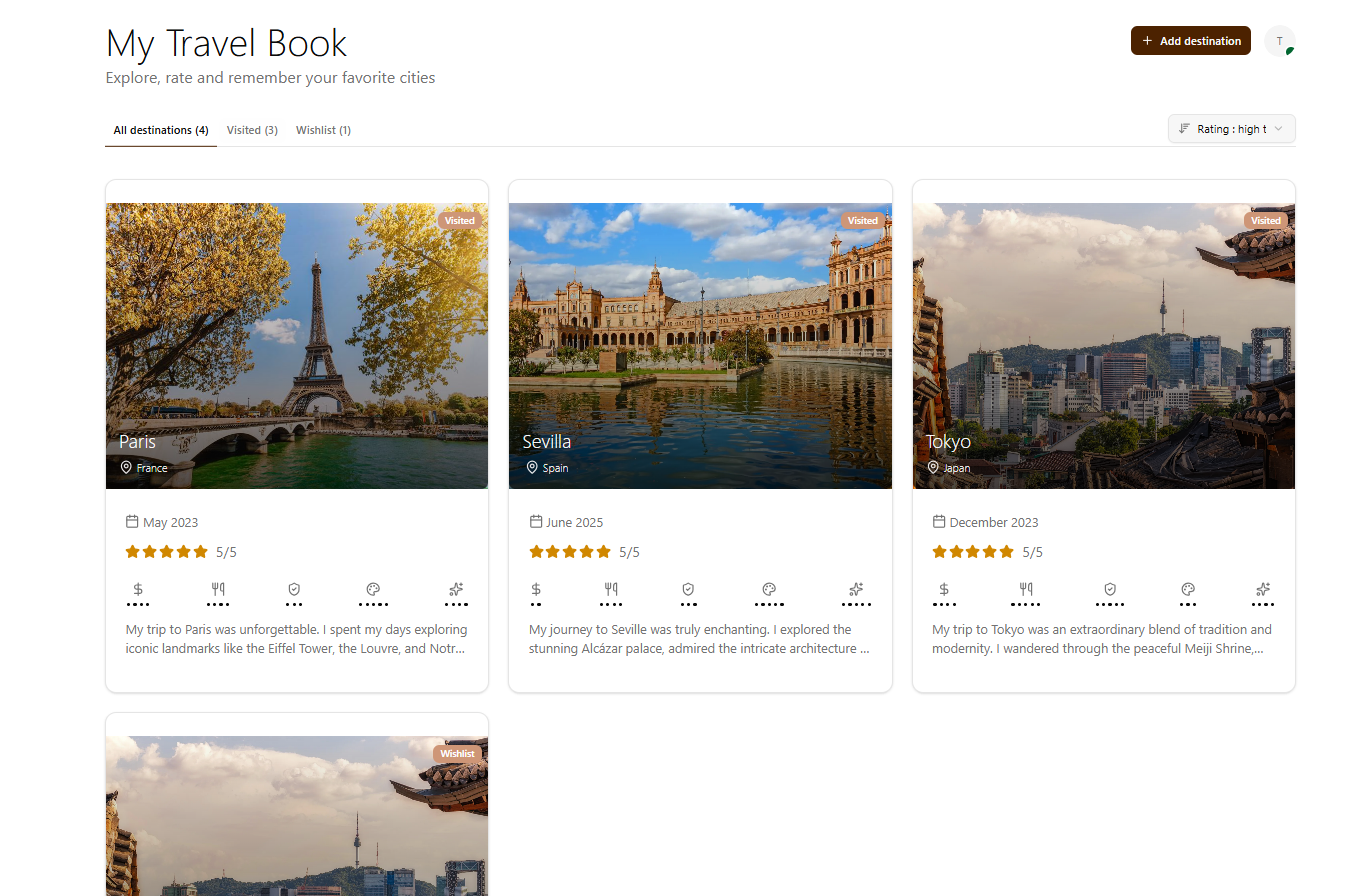
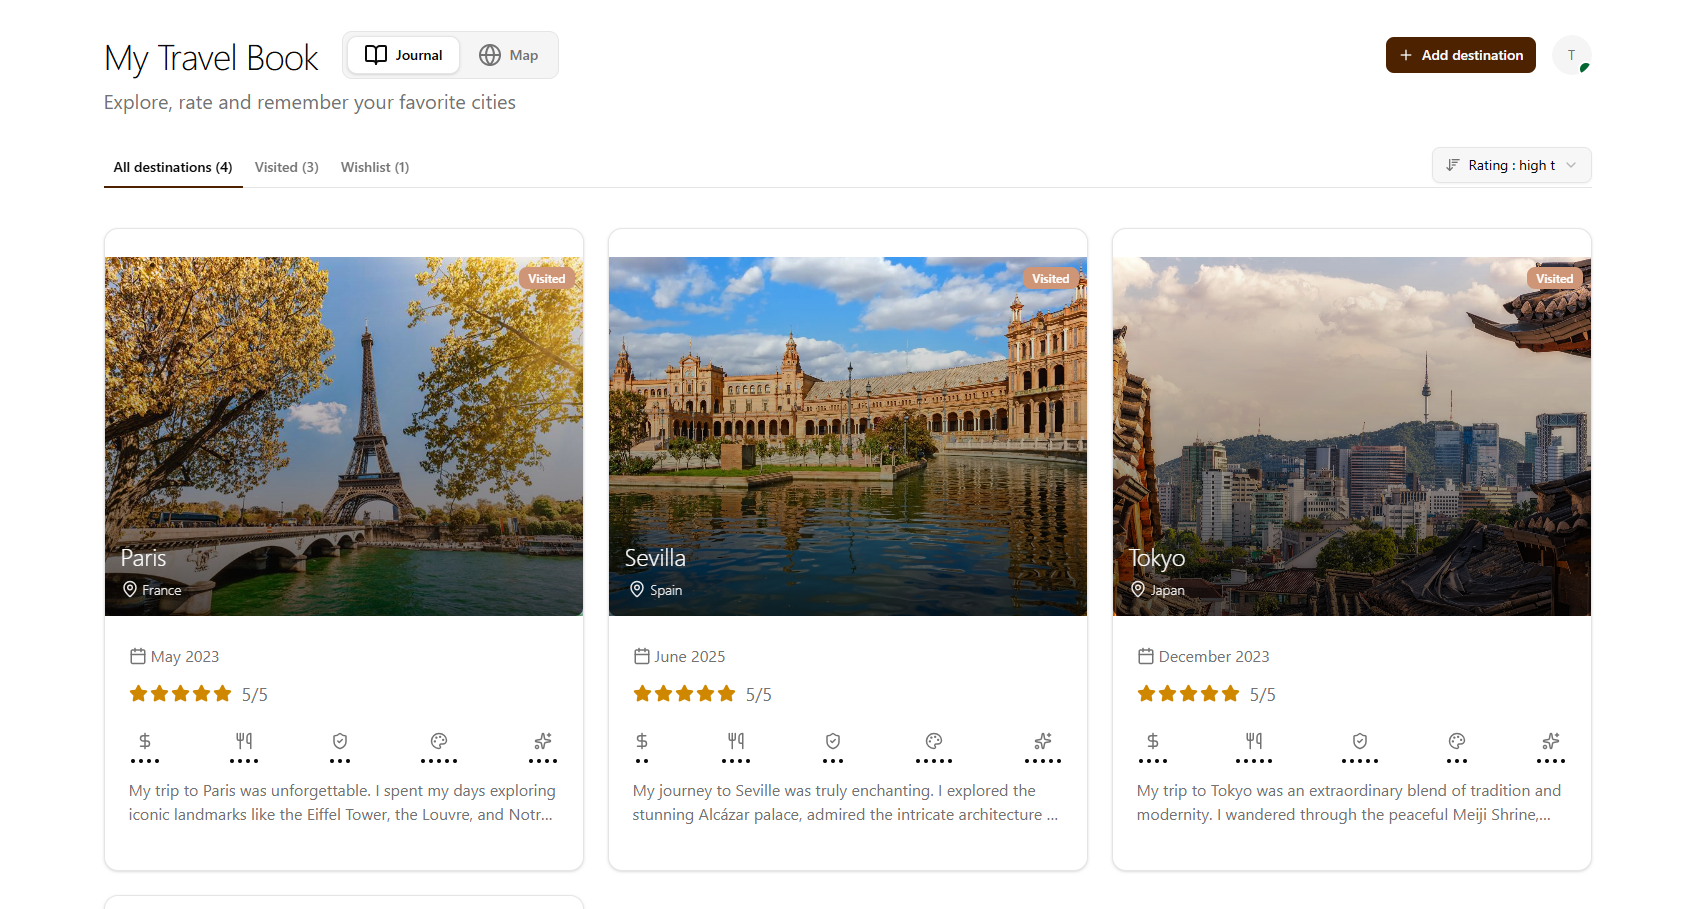
feat: update README with new features, enhance Header with navigation, and improve WorldMap styling and legend

diff --git a/app/components/Header.tsx b/app/components/Header.tsx
@@ -2,16 +2,20 @@
 
 import { Button } from '@/components/ui/button'
 import { Dialog, DialogContent, DialogDescription, DialogHeader, DialogTitle, DialogTrigger } from '@/components/ui/dialog'
-import { Plus } from 'lucide-react'
+import { BookOpen, Globe, Plus } from 'lucide-react'
 
 import { FormAddDestination } from './FormAddDestination'
 import { useState } from 'react'
 import { DropdownMenu, DropdownMenuContent, DropdownMenuGroup, DropdownMenuItem, DropdownMenuLabel, DropdownMenuTrigger } from '@/components/ui/dropdown-menu'
 import { Avatar, AvatarBadge, AvatarFallback, AvatarImage } from '@/components/ui/avatar'
 import { signOut, useSession } from "next-auth/react";
+import { usePathname, useRouter } from 'next/navigation';
 
 const Header = () => {
     const [open, setOpen] = useState(false);
+    const router = useRouter();
+    const pathname = usePathname();
+    const activePage = pathname === "/map" ? "map" : "journal";
 
     const { data: session } = useSession();
     // @ts-expect-error: username is added via NextAuth callback
@@ -20,7 +24,35 @@ const Header = () => {
     return (
         <div>
             <div className='flex items-center justify-between'>
-                <h1 className='text-5xl font-light'>My Travel Book</h1>
+                <div className="flex items-center gap-6">
+                    <h1 className="font-sans text-4xl font-light tracking-tight text-foreground text-balance">
+                        My Travel Book
+                    </h1>
+
+                    {/* Navigation */}
+                    <nav className="inline-flex items-center rounded-lg border bg-muted p-1 gap-0.5">
+                        <button
+                            onClick={() => router.push("/")}
+                            className={`inline-flex items-center gap-2 rounded-lg px-4 py-1.5 text-sm font-medium transition-colors cursor-pointer ${activePage === "journal"
+                                ? "bg-background text-foreground shadow-sm border"
+                                : "text-muted-foreground hover:text-foreground"
+                                }`}
+                        >
+                            <BookOpen className="h-4 w-4" />
+                            Journal
+                        </button>
+                        <button
+                            onClick={() => router.push("/map")}
+                            className={`inline-flex items-center gap-2 rounded-lg px-4 py-1.5 text-sm font-medium transition-colors cursor-pointer ${activePage === "map"
+                                ? "bg-background text-foreground shadow-sm border"
+                                : "text-muted-foreground hover:text-foreground"
+                                }`}
+                        >
+                            <Globe className="h-4 w-4" />
+                            Map
+                        </button>
+                    </nav>
+                </div>
                 <div className="flex items-center gap-4">
                     <Dialog open={open} onOpenChange={setOpen}>
                         <DialogTrigger asChild>

diff --git a/app/map/components/worldMap.tsx b/app/map/components/worldMap.tsx
@@ -27,25 +27,25 @@ const WorldMap = ({ data }: { data: DestinationType[] }) => {
 
     const getFillColor = (status: string | null) => {
         switch (status) {
-            case "visited": return "#4ade80";
-            case "wishlist": return "#facc15";
+            case "visited": return "#16a34a";
+            case "wishlist": return "#e8915a";
             default: return "#D6D6DA";
         }
     };
 
     const getHoverColor = (status: string | null) => {
         switch (status) {
-            case "visited": return "#22c55e";
-            case "wishlist": return "#eab308";
+            case "visited": return "#15803d";
+            case "wishlist": return "#d97a3e";
             default: return "#F53";
         }
     };
 
     return (
-        <div style={{ width: "100%", maxWidth: "1200px", margin: "0 auto", position: "relative", overflow: "hidden" }}>
+        <div style={{ width: "100%", maxWidth: "1200px", margin: "0 auto", position: "relative" }}>
             {/* Tooltip en haut à gauche */}
             {hoveredCountry && (
-                <div className="flex items-center absolute top-4 left-4 z-10 bg-background/90 backdrop-blur-sm border rounded-lg px-4 py-2 shadow-md">
+                <div className="flex items-center gap-2 absolute top-4 left-4 z-10 bg-background/90 backdrop-blur-sm border rounded-lg px-4 py-2 shadow-md">
                     <p className="font-semibold text-sm">{hoveredCountry.name}</p>
                     <p className="text-xs text-muted-foreground">
                         {hoveredCountry.status === "visited" && "Visited ✅"}
@@ -93,6 +93,15 @@ const WorldMap = ({ data }: { data: DestinationType[] }) => {
                             })
                     }
                 </Geographies>
+
+                {/* Légende en bas à droite, directement dans le SVG */}
+                <g transform="translate(620, 360)">
+                    <rect x="0" y="0" width="160" height="30" rx="6" fill="white" fillOpacity="0.9" stroke="#e5e7eb" />
+                    <circle cx="16" cy="15" r="5" fill="#16a34a" />
+                    <text x="28" y="19" fontSize="10" fill="#555">Visited</text>
+                    <circle cx="96" cy="15" r="5" fill="#e8915a" />
+                    <text x="108" y="19" fontSize="10" fill="#555">Wishlist</text>
+                </g>
             </ComposableMap>
         </div>
     );

diff --git a/app/(main)/components/HomeTabs.tsx b/app/(main)/components/HomeTabs.tsx
@@ -55,6 +55,7 @@ export default function HomeTabs() {
                             </SelectGroup>
                         </SelectContent>
                     </Select>
+
                 </div>
             </Tabs>
             <DestinationsList data={data ? sortData(data, sort) : []} status={tab} isLoading={isLoading} error={error} />

diff --git a/README.md b/README.md
@@ -7,7 +7,9 @@ Currently in development 🏗
 
 ![login page](./public/login-page.png)
 ![home page](./public/home-page.png)
+![map page](./public/map-page.png)
 ![form](./public/form.png)
+
 
 
 
@@ -30,6 +32,8 @@ Currently in development 🏗
 - Add destinations (cities and countries)
 - Mark destinations as visited or on wish list
 - View list of visited destinations and wish list
+- Map view of visited/wish list destinations
+- User authentication
 
 
 ## Setup Jest (tests unitaires)
